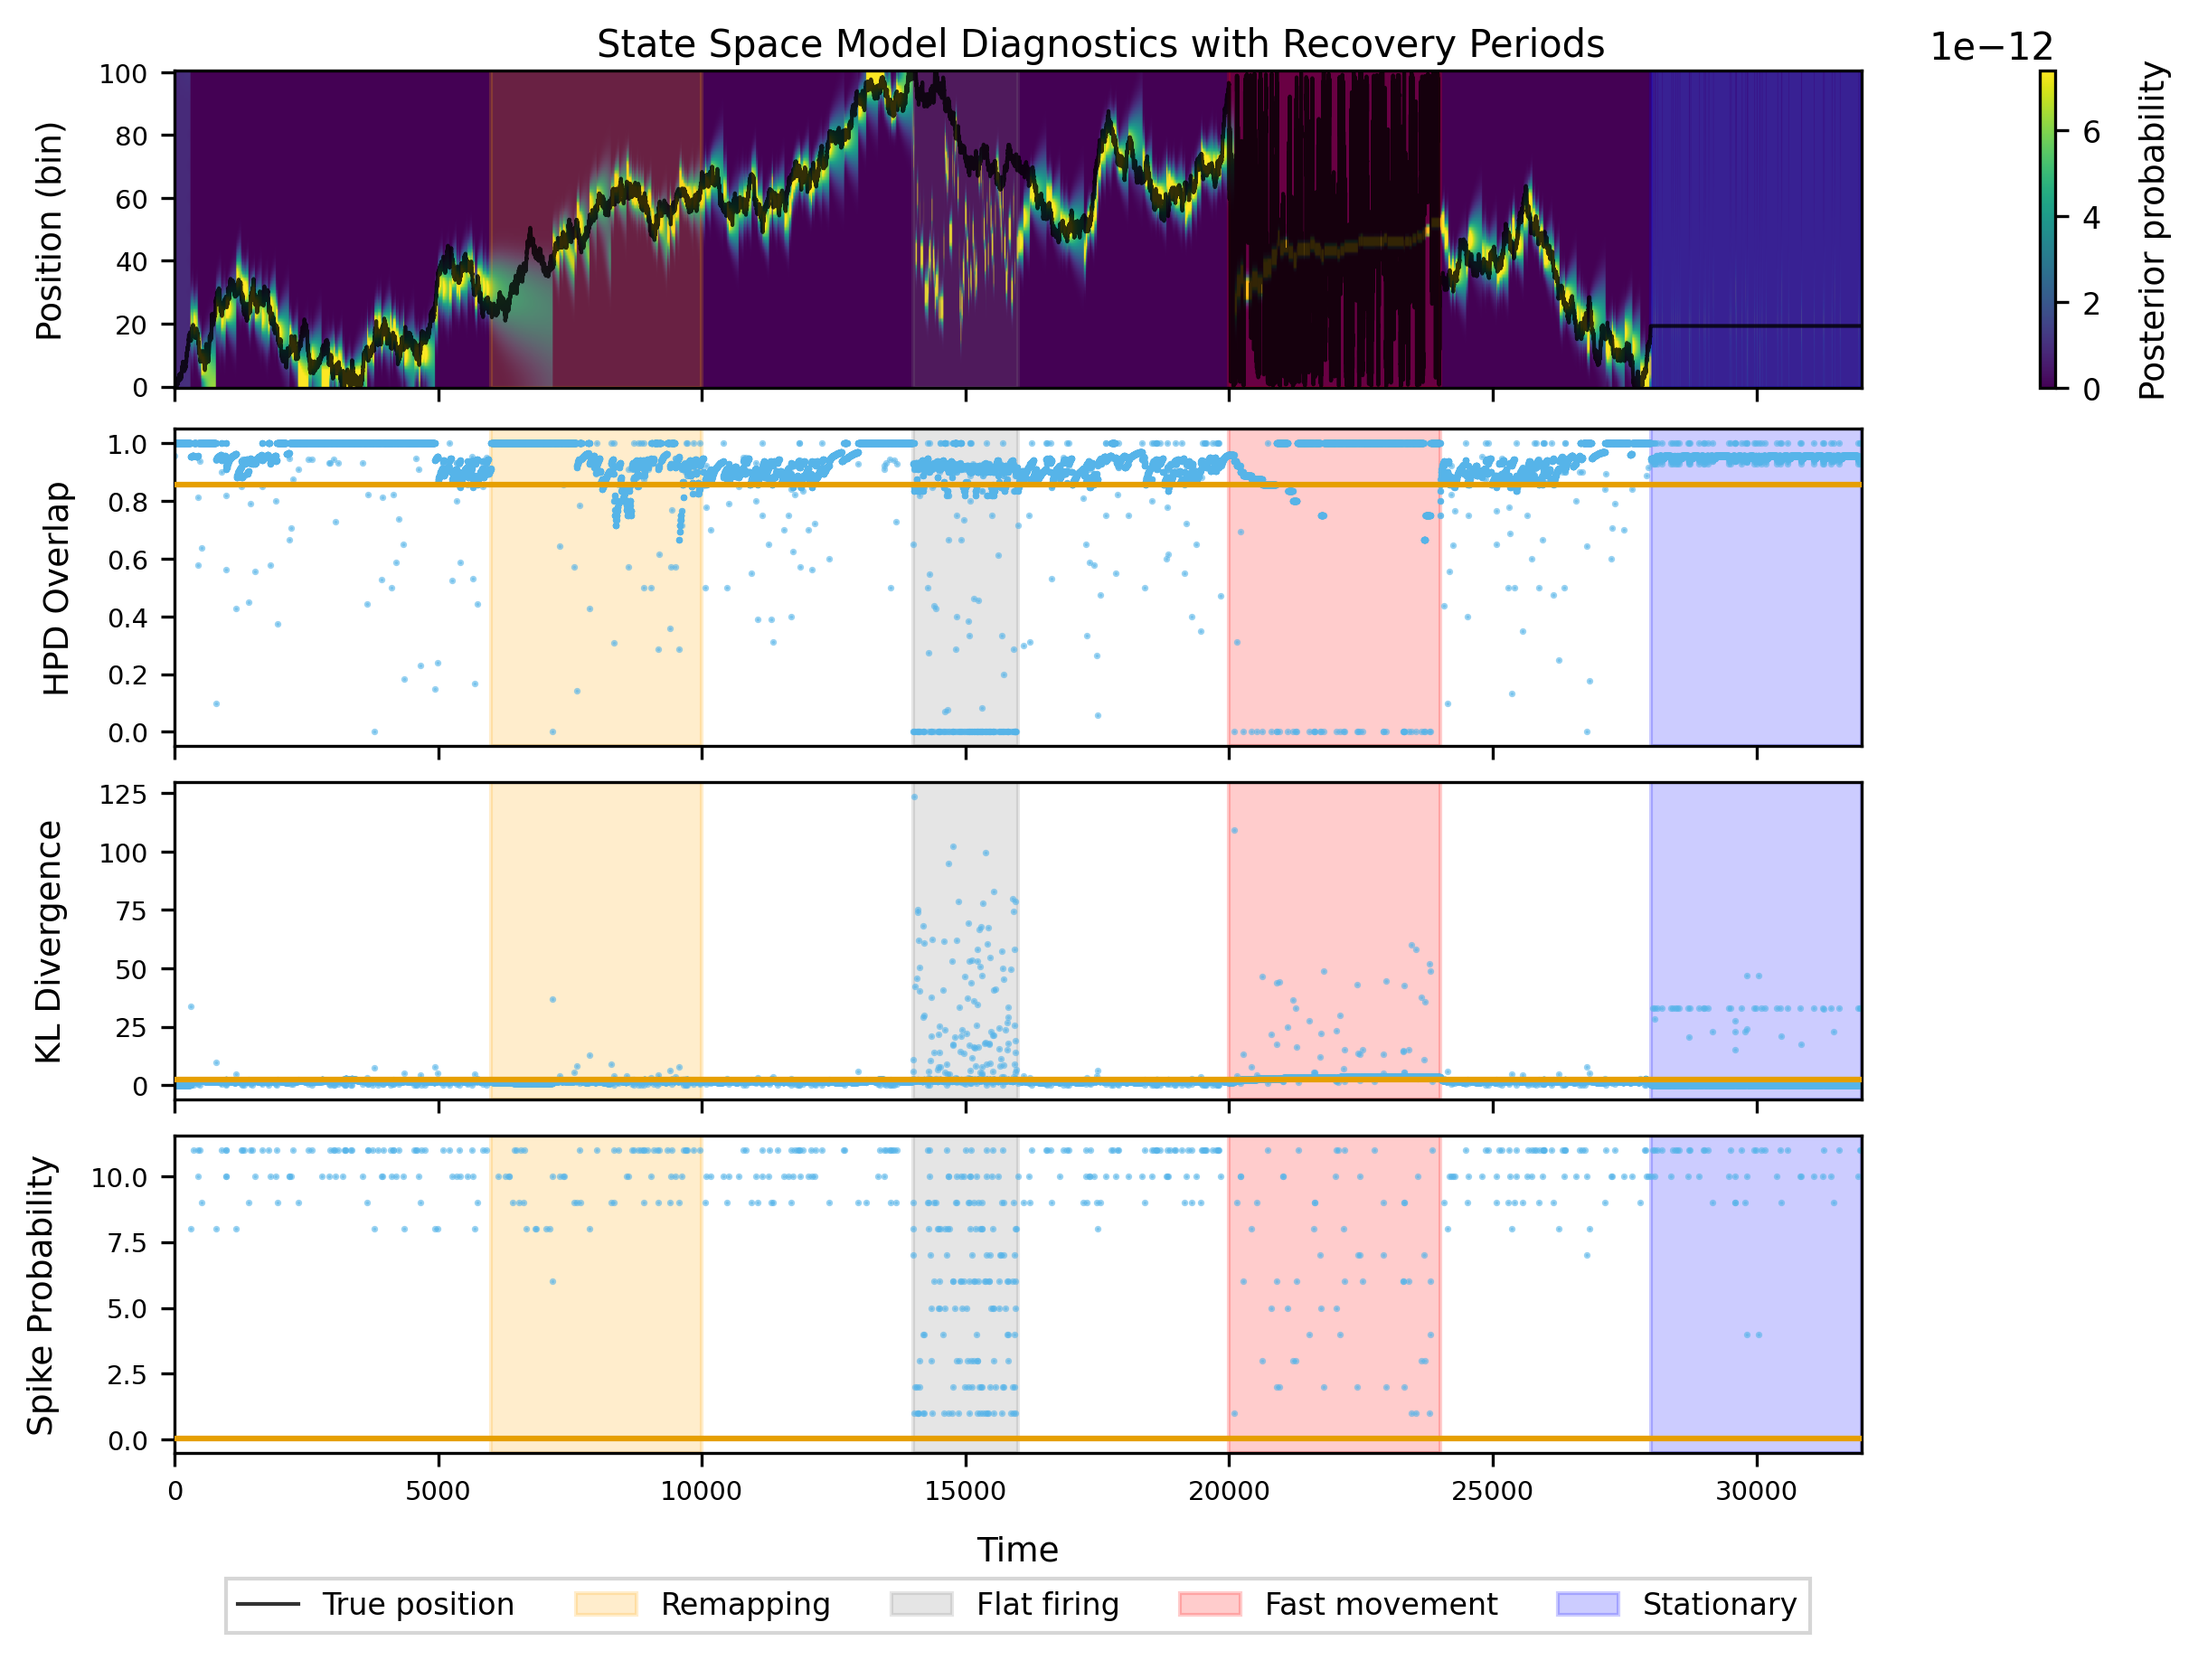
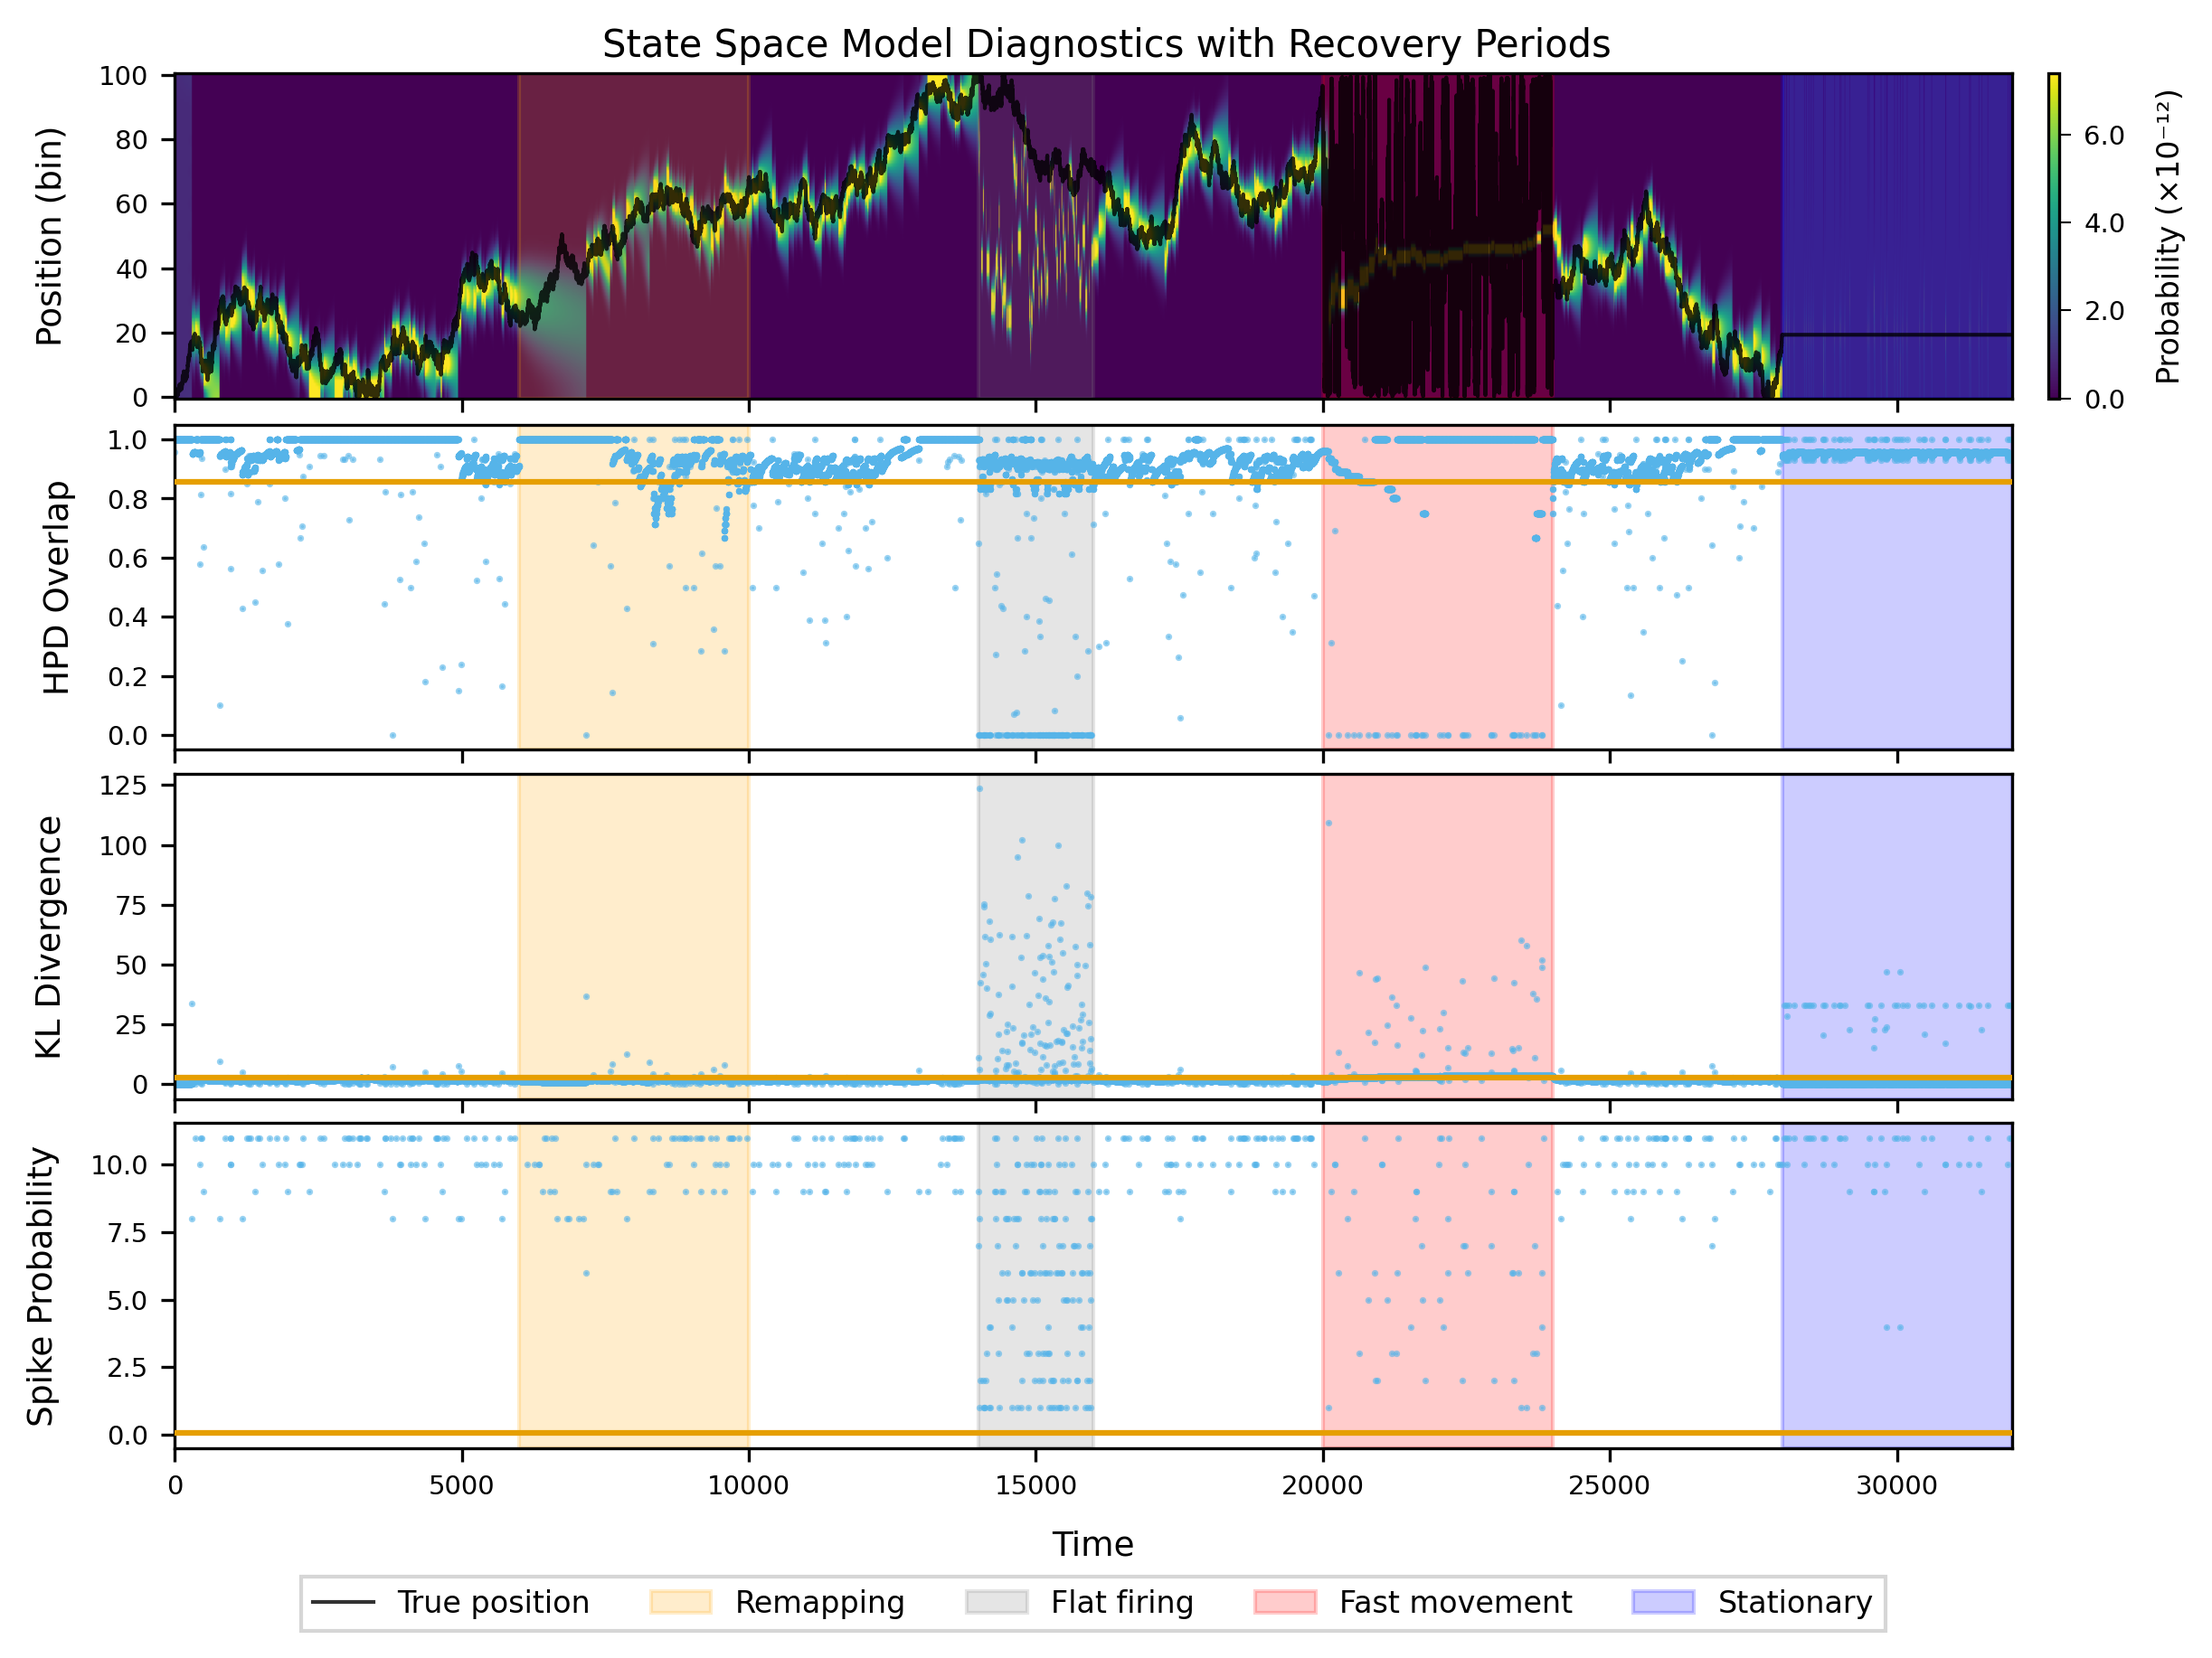
Improve plot formatting and colorbar in sim.py
Enhanced subplot layout and colorbar formatting in plot_original for better readability. Updated colorbar label, tick formatting, and adjusted figure title positions. Updated sim_diagnostics.png to reflect these visualization changes.

diff --git a/scripts/sim.py b/scripts/sim.py
@@ -392,7 +392,20 @@ def plot_original(
         T_flat_end, T_recovery2_end, T_fast_end, T_recovery3_end, T_slow_end)
     """
     n_time = metrics["post"].shape[0]
-    fig, axes = plt.subplots(4, 1, figsize=(8, 6), constrained_layout=True, sharex=True, dpi=150)
+    fig, axes = plt.subplots(
+        4,
+        1,
+        figsize=(8, 6),
+        constrained_layout={
+            "h_pad": 0.02,
+            "w_pad": 0.02,
+            "hspace": 0,
+            "wspace": 0,
+            "rect": [0, 0, 1, 0.97],
+        },
+        sharex=True,
+        dpi=150,
+    )
 
     im = axes[0].imshow(
         metrics["post"].T,
@@ -405,9 +418,15 @@ def plot_original(
     axes[0].plot(np.arange(n_time), x_true, "k", linewidth=1.0, alpha=0.8, label="True position")
     axes[0].set_ylabel("Position (bin)", fontsize=9, labelpad=8)
     axes[0].tick_params(labelsize=7)
-    cbar = fig.colorbar(im, ax=axes[0], fraction=0.046, pad=0.04)
-    cbar.set_label("Posterior probability", fontsize=9, labelpad=10)
-    cbar.ax.tick_params(labelsize=8)
+
+    # Create colorbar with better formatting
+    cbar = fig.colorbar(im, ax=axes[0], fraction=0.03, pad=0.02, aspect=30)
+    cbar.set_label("Probability (×10⁻¹²)", fontsize=8, labelpad=8)
+    cbar.ax.tick_params(labelsize=7, length=3, width=0.5)
+    # Scale tick labels by 1e12 to avoid offset text
+    import matplotlib.ticker as ticker
+
+    cbar.ax.yaxis.set_major_formatter(ticker.FuncFormatter(lambda x, p: f"{x * 1e12:.1f}"))
 
     # Add phase boundaries to all axes, but only add labels to first axis for legend
     for i, ax in enumerate(axes):
@@ -505,7 +524,7 @@ def plot_original(
         ncol=5,
     )
 
-    fig.suptitle(title, fontsize=10, y=0.995)
+    fig.suptitle(title, fontsize=10, y=0.99)
     return fig
 
 
@@ -575,7 +594,7 @@ def plot_transformed(
     axes[3].set_xlabel("Time", fontsize=9, labelpad=8)
     axes[3].tick_params(labelsize=7)
 
-    fig.suptitle(title, fontsize=10, y=0.995)
+    fig.suptitle(title, fontsize=10, y=0.998)
     return fig
 
 
